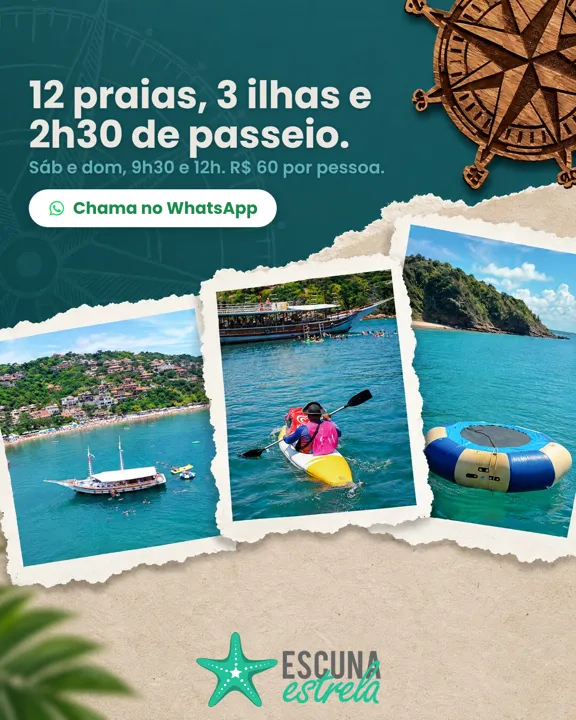
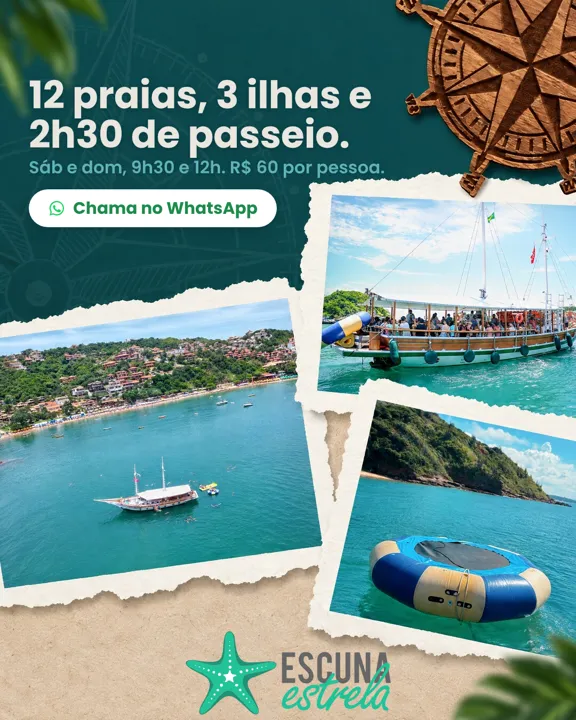
feat(criativos): bases HF de story 9:16 e anúncio 1200×628; polaroids sem o caiaque
- polaroids-01/02 regeradas com a foto da escuna no píer no lugar do caiaque
  inventado pelo modelo (pedido do dono); prompt agora exige as fotos exatas
- story-01/02 (1080×1920) e anuncio-01/02 (1200×628, recorte do 16:9)
- specs exemplo-molde-hf-story/anuncio + samples em docs/social/samples
- molde HF ganha `zonas.rotulos` (rótulos em petróleo pra enquete)

Claude-Session: https://claude.ai/code/session_016ARSNAECKu73yHJ9gLAVus

diff --git a/scripts/creatives/templates/molde-hf.html b/scripts/creatives/templates/molde-hf.html
@@ -20,6 +20,7 @@
   .cta .ico { width: 1.05em; height: 1.05em; }
   .logos { position: absolute; display: flex; align-items: center; justify-content: center; gap: 36px; }
   .logos svg { height: auto; display: block; }
+  .rotulo { position: absolute; display: flex; align-items: center; justify-content: center; font-weight: 600; color: var(--ee-petroleo); text-align: center; line-height: 1.1; }
 </style>
 </head>
 <body>
@@ -27,6 +28,7 @@
   <img class="base" id="base" alt="">
   <div class="zone" id="zone"><div class="title" id="title"></div><div class="fact" id="fact"></div><div class="cta" id="cta"></div></div>
   <div class="logos" id="logos"></div>
+  <div id="rotulos"></div>
 </div>
 <script>
   // SPEC vem do renderizador. Zonas em % (x, y, w, h). Defaults batem com a arte base "foto + faixa" 4:5.
@@ -48,6 +50,9 @@
   logos.innerHTML = `<div class="logo-ee">${SPEC.logoEE || ''}</div>` + (SPEC.assinatura === 'escuna+nautitour' ? `<div class="logo-nt">${SPEC.logoNT || ''}</div>` : '');
   const n = logos.children.length; [...logos.children].forEach(d => { d.style.width = (n === 1 ? 100 : 48) + '%'; const s = d.querySelector('svg'); if (s) { s.removeAttribute('width'); s.removeAttribute('height'); s.style.width = '100%'; s.style.maxHeight = '100%'; } });
   if (SPEC.assinatura === 'nenhuma') logos.remove();
+  // rótulos (enquete): caixas pequenas em % com texto em petróleo, tamanho em % da largura
+  const rot = document.getElementById('rotulos');
+  (Z.rotulos || []).forEach(z => { const d = document.createElement('div'); d.className = 'rotulo'; pct(d, z); d.style.fontSize = vw(z.tamanho || 2.6); if (z.girar) d.style.transform = `rotate(${z.girar}deg)`; d.textContent = z.texto || ''; rot.appendChild(d); });
   window.__ready = Promise.all([document.fonts.ready, new Promise(res => { if (base.complete) res(); else { base.onload = res; base.onerror = res; } })]);
 </script>
 </body>

diff --git a/scripts/creatives/bases/README.md b/scripts/creatives/bases/README.md
@@ -6,8 +6,10 @@ logo são desenhados por cima em HTML (texto e logo sempre exatos). Prompts em `
 | Arquivo | Layout | Foto(s) | Zonas sugeridas |
 |---|---|---|---|
 | `foto-faixa-01.jpg`, `-02.jpg` | foto hero → rasgo → faixa petróleo vazia → kraft com rosa de madeira | drone João Fernandes | texto `6/58/88/25`, logo `32/87/36/9` |
-| `polaroids-01.jpg`, `-02.jpg` | petróleo com marca d'água → 3 polaroids rasgadas sobre kraft, rosa no canto superior direito | drone, snorkel*, trampolim | texto `5/4/62/34` (esq.), logo `32/89/36/8` |
+| `polaroids-01.jpg`, `-02.jpg` | petróleo com marca d'água → 3 polaroids rasgadas sobre kraft, rosa no canto superior direito | drone, escuna no píer, trampolim | texto `5/5/64/32` (esq.), logo `30/90/40/7` |
+| `story-01.jpg`, `-02.jpg` (1080×1920) | foto hero → rasgo → faixa petróleo vazia → kraft com rosa | escuna no píer | texto `7/51/86/31`, logo `30/88/40/8` |
+| `anuncio-01.jpg`, `-02.jpg` (1200×628) | painel petróleo à esquerda com rasgo vertical, foto à direita, rosa no canto | drone João Fernandes | texto `4/8/33/60` (esq.), logo `4/74/32/18` (escuna+nautitour) |
 
-\* nas duas artes de polaroids o modelo substituiu a foto de snorkel por um caiaque. Regenerar se precisar da foto exata.
+Na 1ª tentativa de polaroids o modelo trocou a foto de snorkel por um caiaque; a versão atual pede "exactly these supplied photos, unchanged" e usou a foto da escuna. Conferir sempre as fotos antes de publicar.
 
 Originais em 2K ficam na conta Higgsfield (histórico de gerações de 09/out/2026).
